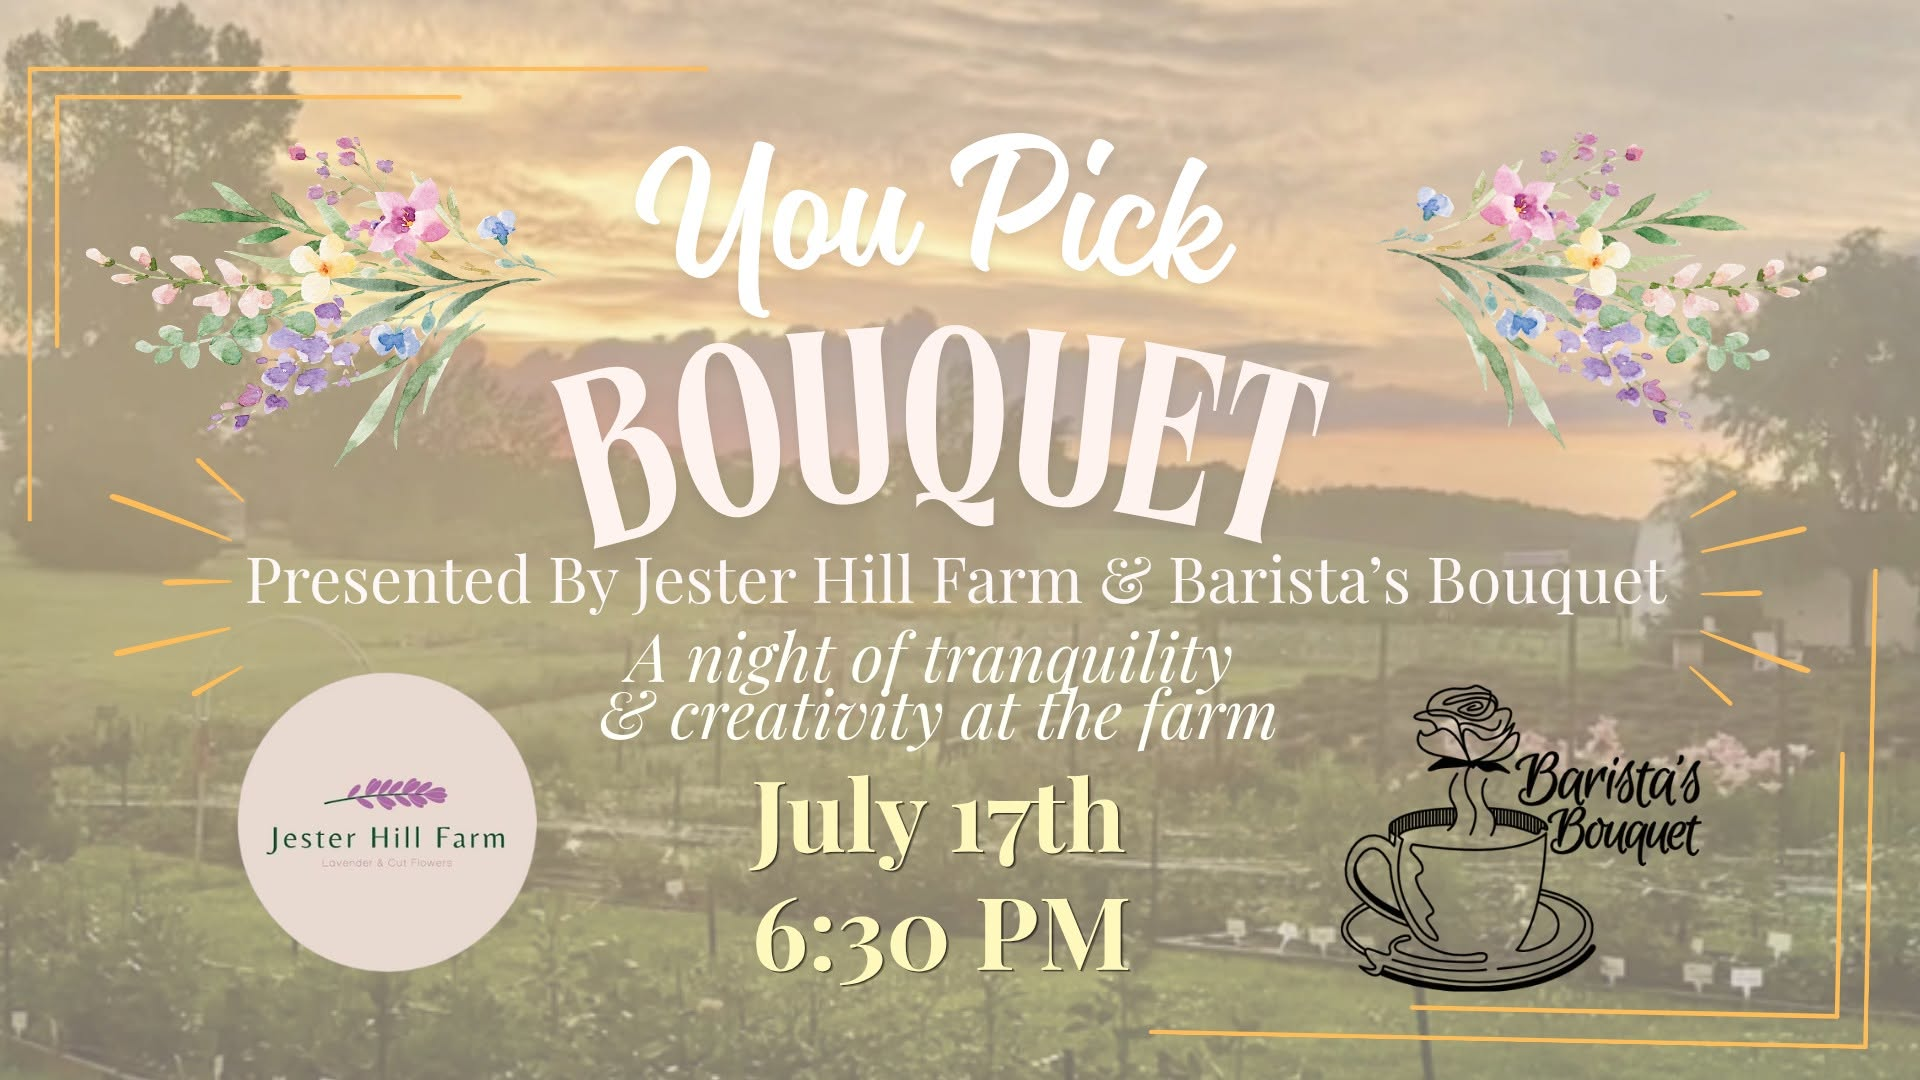
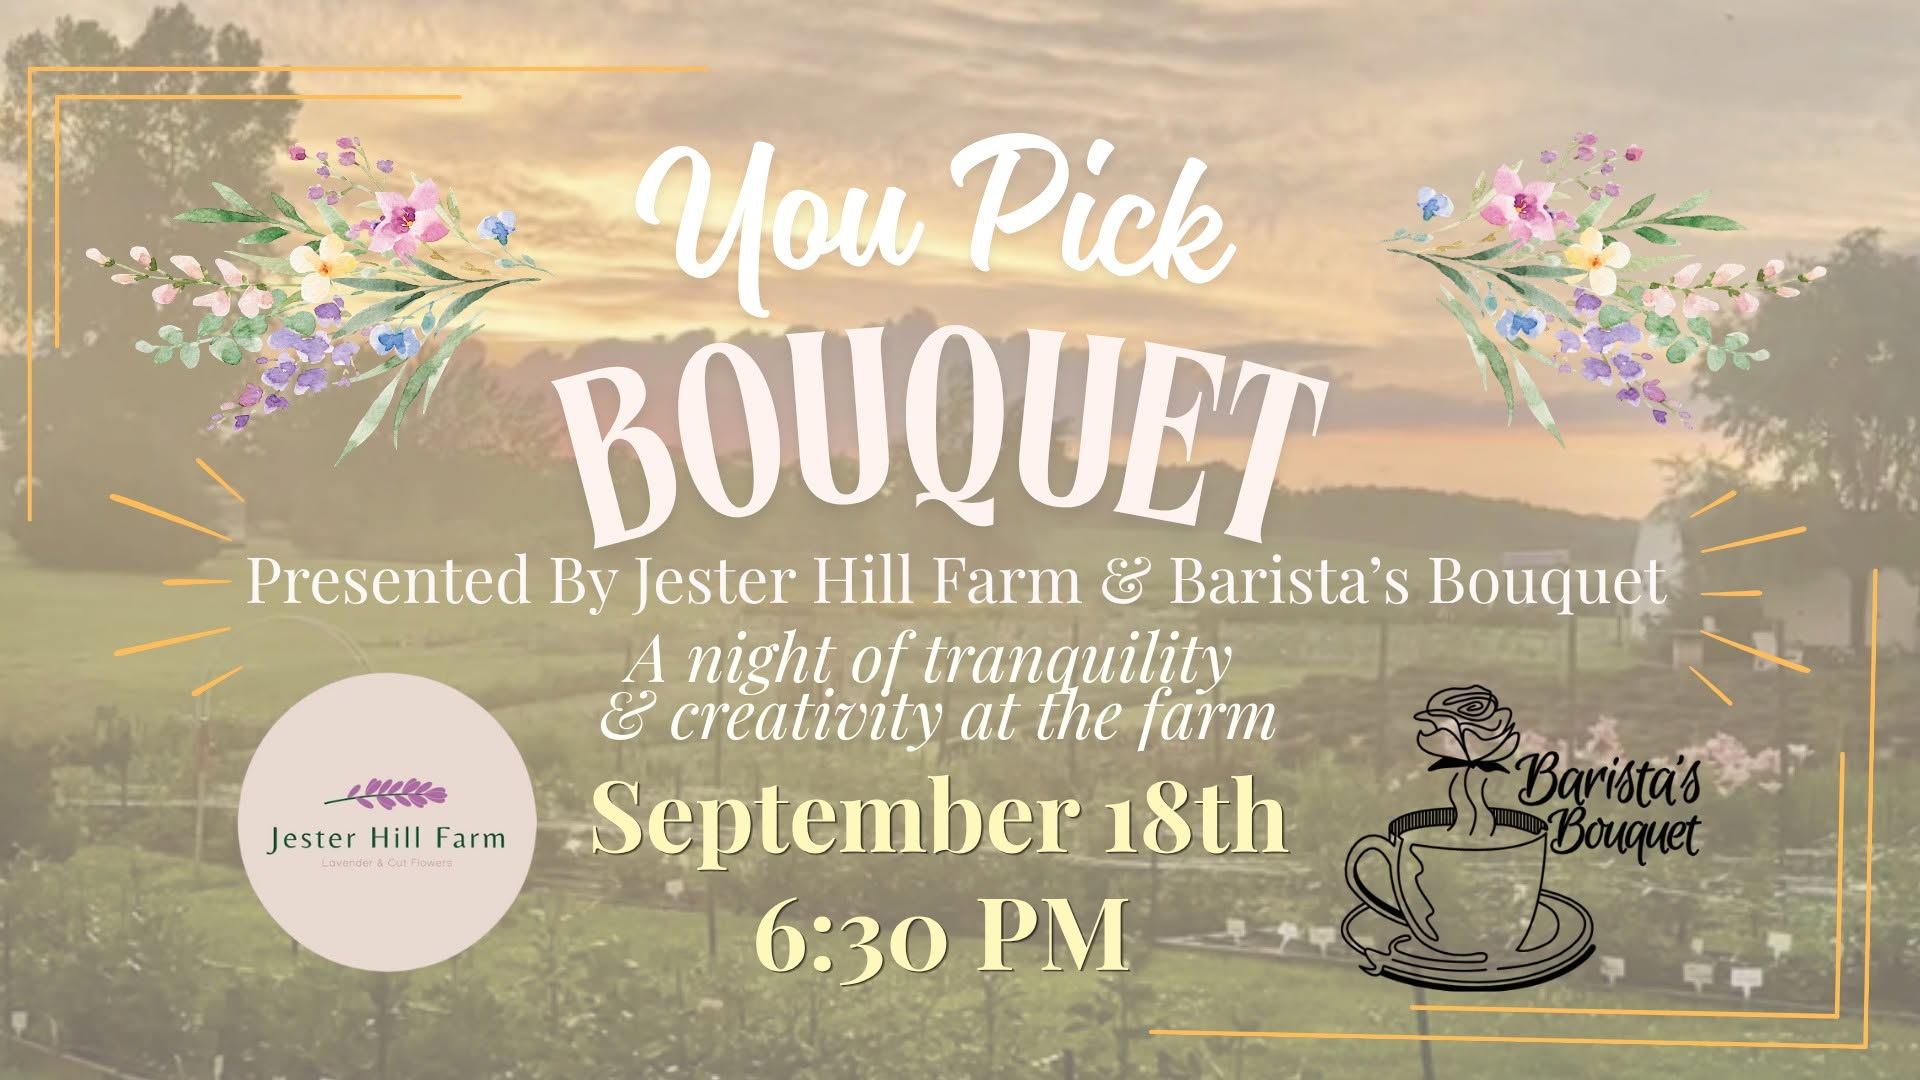
events up to date through Sept, mahjong incomplete

Changed region(s): [[0.3125, 0.7028, 0.6875, 0.825]]

diff --git a/events.html b/events.html
@@ -154,6 +154,54 @@
                     <div class="card mb-3 mt-3">
                         <div class="row g-0">
                             <div class="col-md-4">
+                                <img src="/static/images/shh.jpg" class="img-fluid rounded-start" alt="...">
+                            </div>
+                            <div class="col-md-8">
+                                <div class="card-body">
+                                    <h5 class="card-title">SHHhhhhhhh book club (the h is "silent")</h5>
+                                    <h5 class="fw-bold text-danger">Urbandale Location</h5>
+
+                                    <p class="card-text">Sunday 9/6 1:30pm - 3:30pm</p>
+                                    <p class="card-text"><small class="text-body-secondary">Welcome to SHHHHHH Book Club
+                                            — a cozy, quiet escape for book
+                                            lovers, introverts, and anyone who enjoys being *alone… together*.
+                                        </small></p>
+                                    <p class="card-text"><small class="text-body-secondary">
+                                            Join us from 1:30-3:30PM for a low-pressure, come-as-you-are
+                                            kind of afternoon. We'll start with 30 minutes to grab a drink, casually
+                                            mingle (or politely avoid eye contact), and find your perfect reading spot.
+                                            Then we settle in for one full hour of uninterrupted reading time — no
+                                            discussions, no forced sharing, just you and your book in peaceful silence.
+                                        </small></p>
+                                    <p class="card-text"><small class="text-body-secondary">
+                                            For the final 30 minutes, you're welcome to keep reading, chat with fellow
+                                            like-minded introverts, or quietly browse the shop — socializing optional,
+                                            of course.
+                                            <br><br>
+                                            This is a free event, but space is limited, so pre-registration is requested
+                                            to help us keep things comfortable.
+                                            <a href="https://docs.google.com/forms/d/e/1FAIpQLSfClUYUjM4_cO35NgU7sKowAi1K7LThsF_mrJhD0PYHXACggA/viewform"
+                                                target="_blank">Register Here!</a>
+                                            ☕ Coffee, tea, and house-made baked goods will be available for purchase.
+                                            Come solo, bring a friend, or sit near someone you'll quite possibly never
+                                            speak to 😋 but deeply relate to. Either way — you're in the right place.
+                                        </small></p>
+                                </div>
+                            </div>
+                        </div>
+                    </div>
+                </div>
+            </div>
+        </div>
+    </section>
+
+    <section id="logo-cont">
+        <div class="container">
+            <div class="row">
+                <div class="col">
+                    <div class="card mb-3 mt-3">
+                        <div class="row g-0">
+                            <div class="col-md-4">
                                 <img src="https://www.spectator.co.uk/wp-content/uploads/2023/03/iStock-1087508538.jpg?w=600"
                                     class="img-fluid rounded-start" alt="...">
                             </div>
@@ -176,7 +224,7 @@
             </div>
         </div>
     </section>
-    <section id="logo-cont">
+    <section id="coffee">
         <div class="container">
             <div class="row">
                 <div class="col">
@@ -213,7 +261,7 @@
             </div>
         </div>
     </section>
-    <section id="coffee">
+    <section id="logo-cont">
         <div class="container">
             <div class="row">
                 <div class="col">
@@ -254,15 +302,14 @@
             </div>
         </div>
     </section>
-    <section id="logo-cont">
+    <section id="coffee">
         <div class="container">
             <div class="row">
                 <div class="col">
                     <div class="card mb-3 mt-3">
                         <div class="row g-0">
                             <div class="col-md-4">
-                                <img src="/static/images/dark_colors_r.jpg"
-                                    class="img-fluid rounded-start" alt="...">
+                                <img src="/static/images/dark_colors_r.jpg" class="img-fluid rounded-start" alt="...">
                             </div>
                             <div class="col-md-8">
                                 <div class="card-body">
@@ -281,7 +328,7 @@
             </div>
         </div>
     </section>
-    <section id="coffee">
+    <section id="logo-cont">
         <div class="container">
             <div class="row">
                 <div class="col">
@@ -310,6 +357,55 @@
             </div>
         </div>
     </section>
+    <section id="coffee">
+        <div class="container">
+            <div class="row">
+                <div class="col">
+                    <div class="card mb-3 mt-3">
+                        <div class="row g-0">
+                            <div class="col-md-4">
+                                <img src="/static/images/you_pick.jpg" class="img-fluid rounded-start" alt="...">
+                            </div>
+                            <div class="col-md-8">
+                                <div class="card-body">
+                                    <h5 class="card-title">Flowers at the farm</h5>
+                                    <h6><a class="text-danger text-decoration-underline fw-bold"
+                                            href="https://maps.app.goo.gl/ZojXJK5tAnZBeVFJA" target="_blank">Jester Hill
+                                            Farm</a>
+                                    </h6>
+                                    <p class="card-text">Friday 9/18 6:30 - 7:30pm</p>
+                                    <p class="card-text"><small class="text-body-secondary"> Summer is a time for fun,
+                                            flowers, and relaxation.
+                                            <br>
+                                            Come join Barista's Bouquet and Jester Hill Farm for a beautiful night at
+                                            the Jester Hill Farm 🌻
+                                            Located across from Jester Park, Jester Hill Farm offers expansive views of
+                                            rolling farmland and stunning blooms waiting to be picked.
+                                            Consider this your invitation to literally stop and smell the flowers.
+                                            <br>
+                                            <ul>Your ticket includes:
+                                                <li>Your choice of fresh blooms & greenery from the farm</li>
+                                                <li>A beautiful vessel to design your arrangement in</li>
+                                                <li>A guided class on how to design your own arrangement</li>
+                                                <li>Flower food for your vase at home</li>
+                                                <li>Munchies to graze on as you wander through bliss</li>
+                                            </ul>
+                                            **Clippers will be provided for this class.**
+                                            <br>
+                                            Come and celebrate the beauty that Jester Hill Farm and summer have to offer
+                                            ☀
+                                            <br>
+                                            <a href="https://checkout.square.site/merchant/MLFFCKN1Y6NRG/checkout/USZXNNECP4OLHD4PKOZI2W6H"
+                                                target="_blank">Get your tickets here!</a>
+                                        </small></p>
+                                </div>
+                            </div>
+                        </div>
+                    </div>
+                </div>
+            </div>
+        </div>
+    </section>
     <section id="logo-cont">
         <div class="container">
             <div class="row">
@@ -317,18 +413,22 @@
                     <div class="card mb-3 mt-3">
                         <div class="row g-0">
                             <div class="col-md-4">
-                                <img src="/static/images/dark_bg_r.jpg"
-                                    class="img-fluid rounded-start" alt="...">
+                                <img src="/static/images/book_swap.jpg" class="img-fluid rounded-start" alt="...">
                             </div>
                             <div class="col-md-8">
                                 <div class="card-body">
-                                    <h5 class="card-title">Flowers at the farm</h5>
-                                    <h6 class="text-danger text-decoration-underline fw-bold">Jester Hill Farm
+                                    <h5 class="card-title">Book Swap</h5>
+                                    <h6 class="text-danger text-decoration-underline fw-bold">Urbandale Location
                                     </h6>
-                                    <p class="card-text">Friday 9/18 6:30 - 7:30pm</p>
-                                    <p class="card-text"><small class="text-body-secondary">A beautiful evening at the
-                                            flower farm. Pick and cut your own blooms and Stacey will help
-                                            design beautiful custom arrangements.
+                                    <p class="card-text">Saturday 9/26</p>
+                                    <p class="card-text"><small class="text-body-secondary">Swing by Barista’s Bouquet
+                                            in Urbandale on Saturday, September 26th with your gently used books.
+                                            Whether it's your favorite book that you can't wait to share or a few
+                                            treasures that's been hogging your shelf space.
+                                            Bring one (or a whole stack), and snag a new to you book to take home. Any
+                                            kind of book is welcome—even children's books!
+                                            If there are any stragglers left after our event, they'll be happily donated
+                                            to a public library!
                                         </small></p>
                                 </div>
                             </div>
